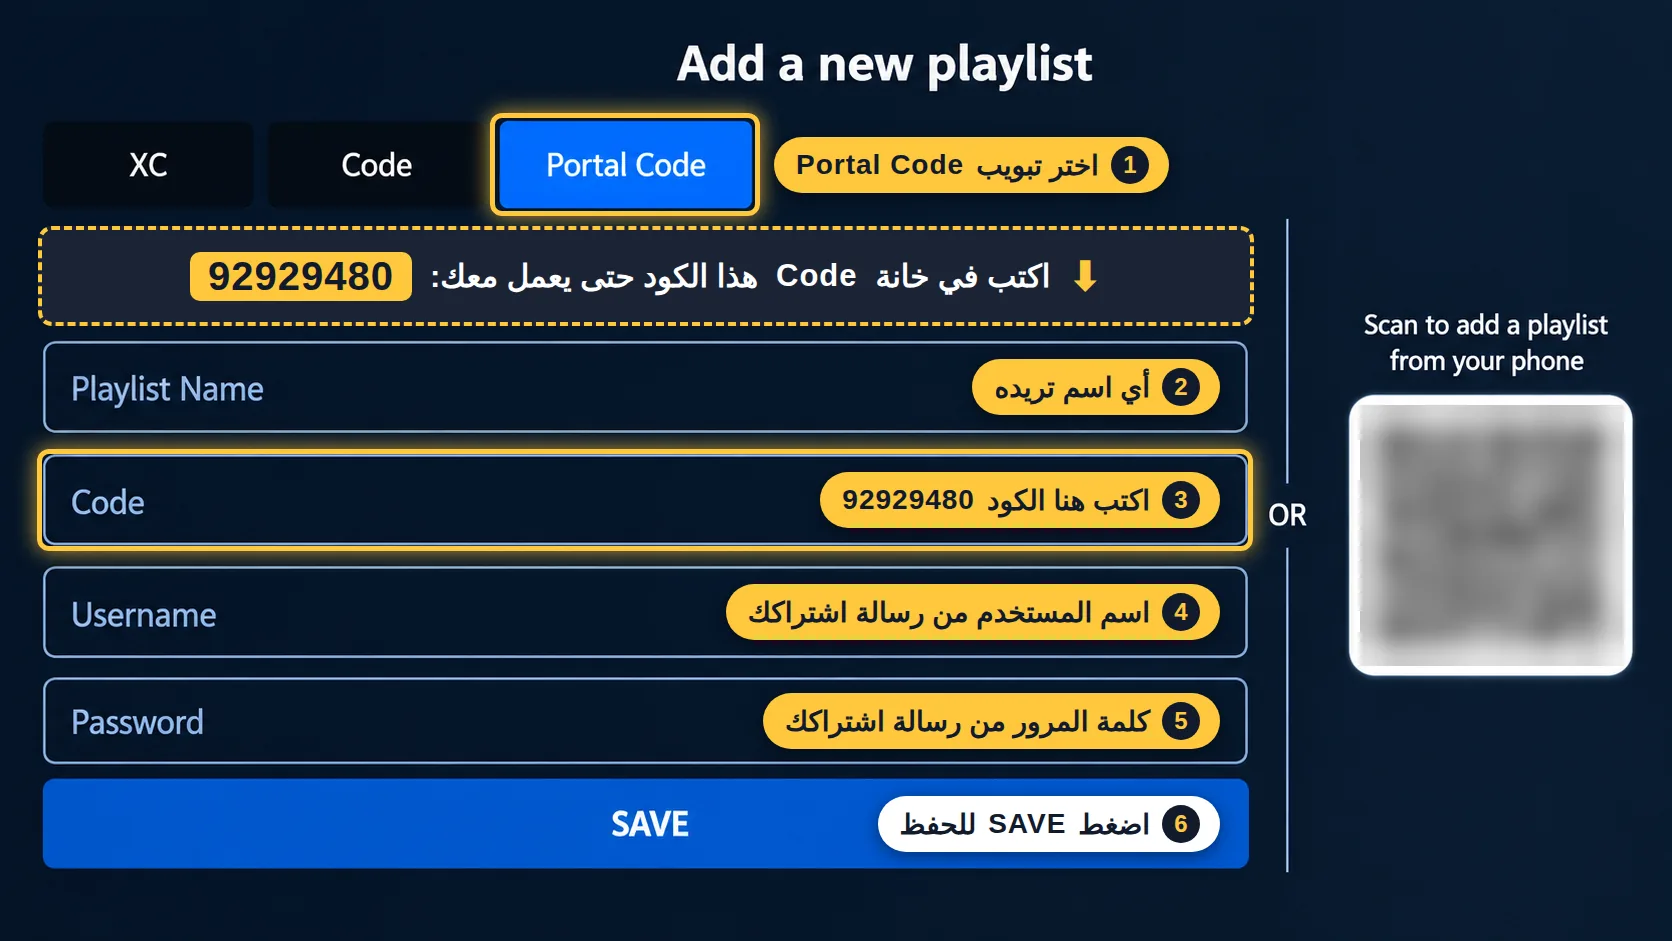
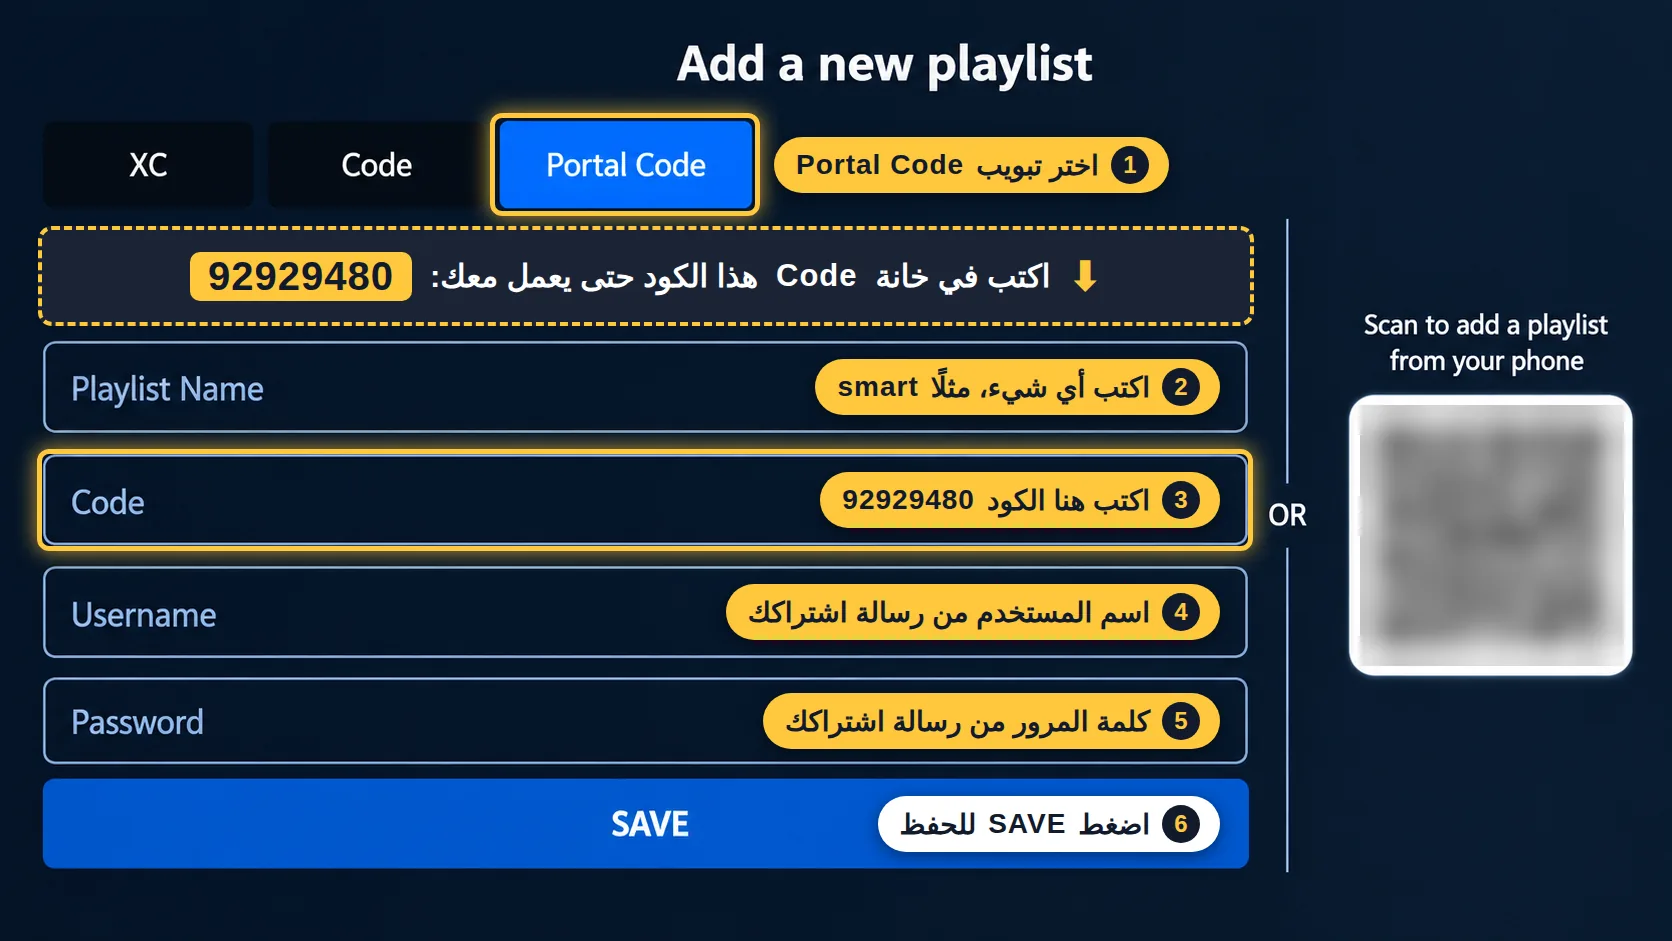
سامسونج (0Player): خانة Playlist Name — اكتب أي شيء، مثلًا smart
Claude-Session: https://claude.ai/code/session_015iEBNMdtqfjGfNK2rjWm3W

Changed region(s): [[0.4665, 0.3698, 0.6842, 0.4623]]

diff --git a/index.html b/index.html
@@ -535,7 +535,7 @@ const DEVICES = {
         { title: "حمّل تطبيق 0Player (زيرو بلاير)", img: "/static/img/webos-0player-store.jpg",
           html: APP("0player", "0Player", "من متجر الشاشة · مجاني") + '<p>من متجر التطبيقات في الشاشة ابحث عن <b dir="ltr">0Player</b> — ويُنطق <b>زيرو بلاير</b> — وحمّله.</p>' + WEBOS_NOTE },
         { title: "أضف القائمة — الخيار الأول: من الشاشة", img: "/static/img/webos-0player-add.jpg",
-          html: '<p>لك خياران لإضافة القائمة: من الشاشة مباشرة (هذه الخطوة)، أو من الجوال (الخطوة التالية). اختر أحدهما فقط.</p><ol><li>افتح التطبيق واضغط أيقونة <b>إضافة قائمة</b> في أعلى الصفحة.</li><li>اختر تبويب <b dir="ltr">Portal Code</b>.</li></ol><img src="/static/img/webos-0player-portal-92929480.webp" alt="خانات تبويب Portal Code في 0Player، وفي خانة Code يُكتب الكود 92929480"><div class="note"><b>مهم:</b> في خانة <b dir="ltr">Code</b> اكتب الكود <b dir="ltr">92929480</b> كما هو حتى يعمل معك الاشتراك.</div><div class="fields"><div class="f"><span>Playlist Name</span><code>أي اسم تريده</code></div><div class="f"><span>Code (الخادم)</span><code>92929480</code></div><div class="f"><span>Username</span><code>اسم المستخدم</code></div><div class="f"><span>Password</span><code>كلمة المرور</code></div></div><p>ثم اضغط <b dir="ltr">SAVE</b>.</p>' + CREDS },
+          html: '<p>لك خياران لإضافة القائمة: من الشاشة مباشرة (هذه الخطوة)، أو من الجوال (الخطوة التالية). اختر أحدهما فقط.</p><ol><li>افتح التطبيق واضغط أيقونة <b>إضافة قائمة</b> في أعلى الصفحة.</li><li>اختر تبويب <b dir="ltr">Portal Code</b>.</li></ol><img src="/static/img/webos-0player-portal-92929480.webp" alt="خانات تبويب Portal Code في 0Player، وفي خانة Code يُكتب الكود 92929480"><div class="note"><b>مهم:</b> في خانة <b dir="ltr">Code</b> اكتب الكود <b dir="ltr">92929480</b> كما هو حتى يعمل معك الاشتراك.</div><div class="fields"><div class="f"><span>Playlist Name</span><code>اكتب أي شيء، مثلًا smart</code></div><div class="f"><span>Code (الخادم)</span><code>92929480</code></div><div class="f"><span>Username</span><code>اسم المستخدم</code></div><div class="f"><span>Password</span><code>كلمة المرور</code></div></div><p>ثم اضغط <b dir="ltr">SAVE</b>.</p>' + CREDS },
         { title: "أضف القائمة — الخيار الثاني: من الجوال عبر 0player.com",
           html: '<p>هذا الخيار بديل للخيار الأول، فإن أضفت القائمة من الشاشة فلا تحتاجه. وإن كانت الكتابة بريموت الشاشة متعبة، أضف القائمة من متصفح جوالك بالترتيب:</p><ol><li>افتح <a class="link" href="https://0player.com/" target="_blank" rel="noopener" dir="ltr">0player.com</a> من الجوال.</li><li>أدخل عنوان <b dir="ltr">MAC</b> الظاهر في التطبيق على الشاشة لتسجيل الدخول.</li><li>اضغط الزر المحدَّد في الصورة: <b dir="ltr">Add Portal Code Playlist</b>، وفي الواجهة العربية اسمه <b>إضافة قائمة تشغيل رمز البوابة</b>.</li></ol><img src="/static/img/webos-0player-web-en.webp" alt="زر Add Portal Code Playlist في موقع 0player.com من الجوال" loading="lazy"><img src="/static/img/webos-0player-web-ar.webp" alt="زر إضافة قائمة تشغيل رمز البوابة في الواجهة العربية لموقع 0player.com" loading="lazy"><ol start="4"><li>اكتب اسمًا للقائمة، وأدخل الرمز التالي مع اسم المستخدم وكلمة السر من بيانات اشتراكك:</li></ol><div class="fields"><div class="f"><span>Code (الخادم)</span><code>92929480</code></div></div><ol start="5"><li>تظهر رسالة <b dir="ltr">Portal group retrieved successfully</b>. اضغط <b dir="ltr">Close</b>، ثم افتح التطبيق على الشاشة، أو أعد فتحه، وستجد القائمة فيه.</li></ol><img src="/static/img/webos-0player-web-done.webp" alt="رسالة نجاح إضافة القائمة في موقع 0player.com" loading="lazy">' }
   ]},
